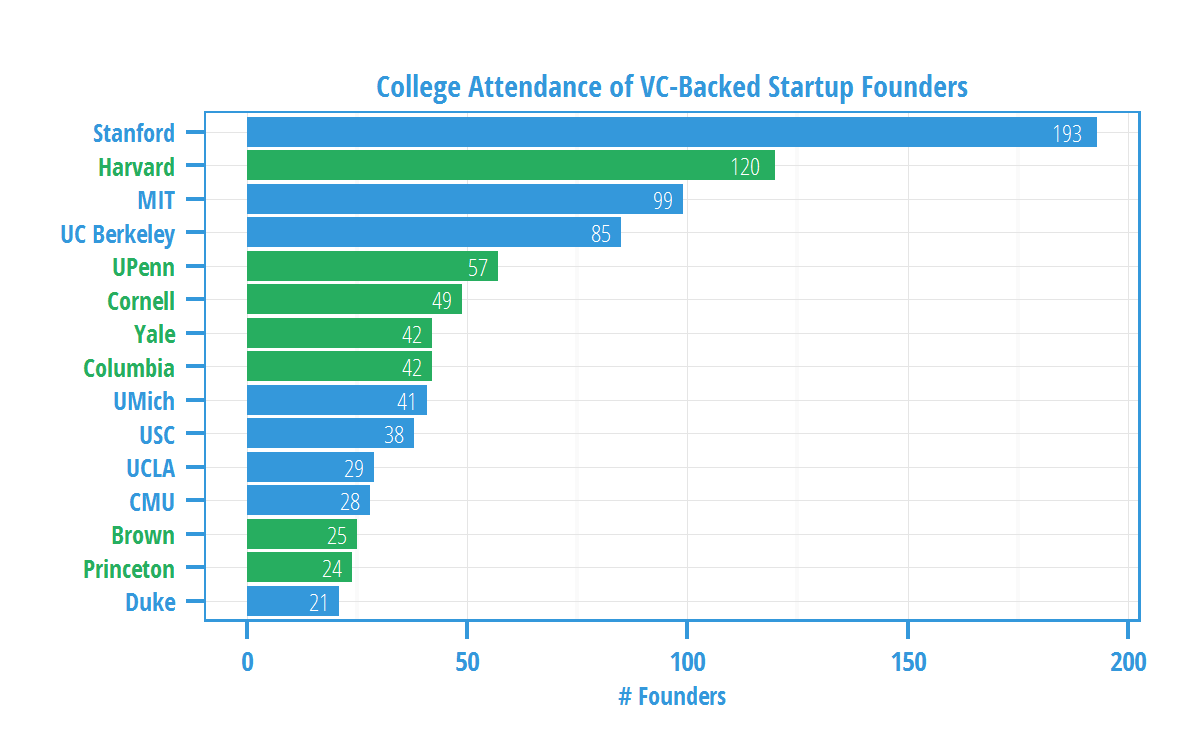
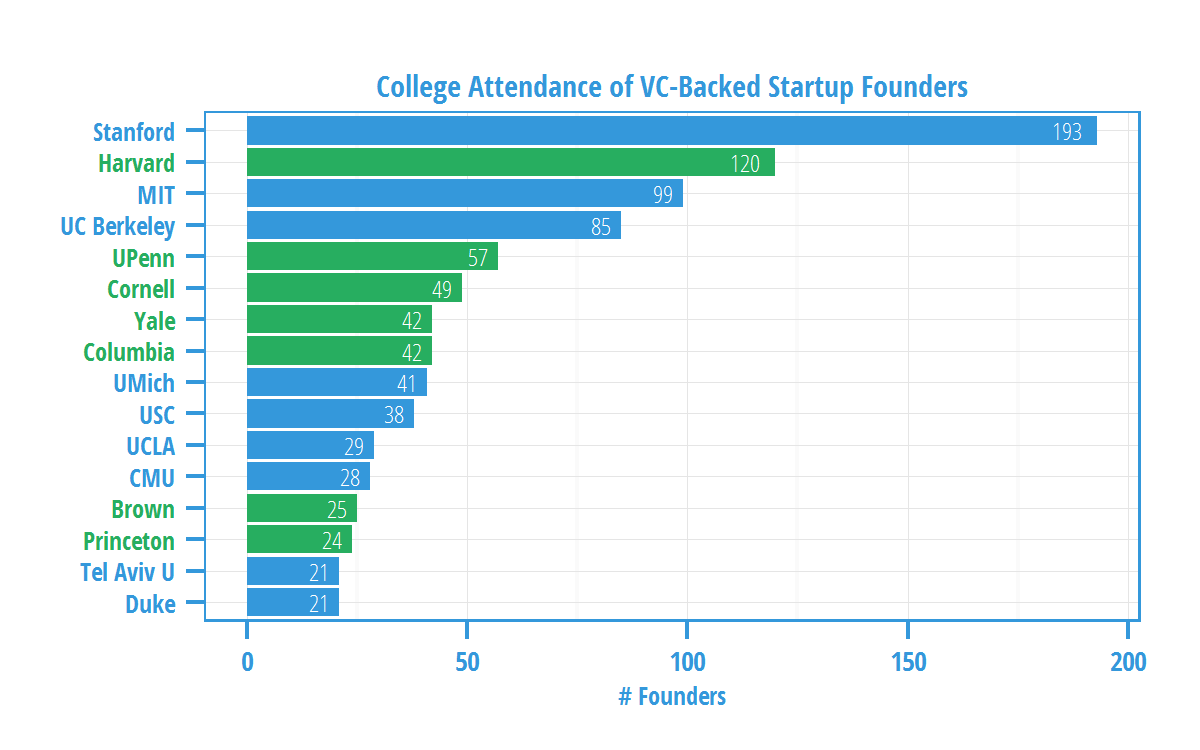
Site updated at 2013-07-20 20:23:11 UTC

Changed region(s): [[0.0308, 0.1533, 0.6475, 0.828], [0.8633, 0.1533, 0.925, 0.2147], [0.1542, 0.1533, 0.185, 0.184]]

diff --git a/2013/07/alma-mater-data/index.html b/2013/07/alma-mater-data/index.html
@@ -244,7 +244,7 @@
 
 <p>Thousands of university graduates attempt to make a startup, but most will not succeed. Are the graduates of some universities more frequently successful?</p>
 
-<p>Here are the Top 15 universities with the most number of successfully-funded graduates:</p>
+<p>Here are the Top 16 universities with the most number of successfully-funded graduates:</p>
 
 <p><img src="/img/founder-colleges.png"></p>
 
@@ -252,7 +252,7 @@
 
 <p>Seven out of the eight Ivy League Universities (colored green on the chart) are present, but most of the Ivies are  in the middle of the chart. MIT and UC Berkeley each have nearly <em>double</em> the amount of successful graduates from Yale and Columbia.</p>
 
-<p>It&rsquo;s worth noting that Tel Aviv University, an Israeli university, ties Duke University at 21 and unfortunately just missed making the chart.</p>
+<p>It&rsquo;s worth noting that Tel Aviv University, an Israeli university, ties Duke University at 21.</p>
 
 <h1>Which university&rsquo;s graduates have cumulatively raised the most amount of total funding?</h1>
 
@@ -268,7 +268,7 @@
 
 <p>Startup founders with big, world changing ideas need lots of venture capital. Only the founders with <em>good</em> ideas will actually receive it.</p>
 
-<p>Here are the average amount of first-round funding for the top 15 universities with the most number of successfully-funded graduates:</p>
+<p>Here are the average amount of first-round funding for the top 16 universities with the most number of successfully-funded graduates:</p>
 
 <p><img src="/img/avg-first-raised.png"></p>
 

diff --git a/contact/index.html b/contact/index.html
@@ -198,7 +198,7 @@
     
   </header>
   
-  <p>You can contact through any of the following channels, although e-mail at <a href="&#x6d;&#x61;&#x69;&#108;&#x74;&#x6f;&#x3a;&#x6d;&#x61;&#x78;&#64;&#109;&#x69;&#x6e;&#x69;&#x6d;&#97;&#x78;&#x69;&#114;&#46;&#x63;&#111;&#x6d;">&#109;&#x61;&#120;&#x40;&#x6d;&#x69;&#110;&#x69;&#109;&#97;&#120;&#x69;&#x72;&#46;&#99;&#x6f;&#109;</a> is preferred. Following me on Facebook and Twitter certainly doesn&rsquo;t hurt either. ;)</p>
+  <p>You can contact through any of the following channels, although e-mail at <a href="&#x6d;&#97;&#105;&#108;&#x74;&#x6f;&#58;&#x6d;&#x61;&#120;&#x40;&#109;&#105;&#110;&#105;&#x6d;&#x61;&#x78;&#105;&#114;&#x2e;&#99;&#111;&#x6d;">&#x6d;&#x61;&#x78;&#x40;&#x6d;&#105;&#110;&#x69;&#109;&#x61;&#120;&#105;&#x72;&#46;&#x63;&#111;&#109;</a> is preferred. Following me on Facebook and Twitter certainly doesn&rsquo;t hurt either. ;)</p>
 
 <hr />
 
